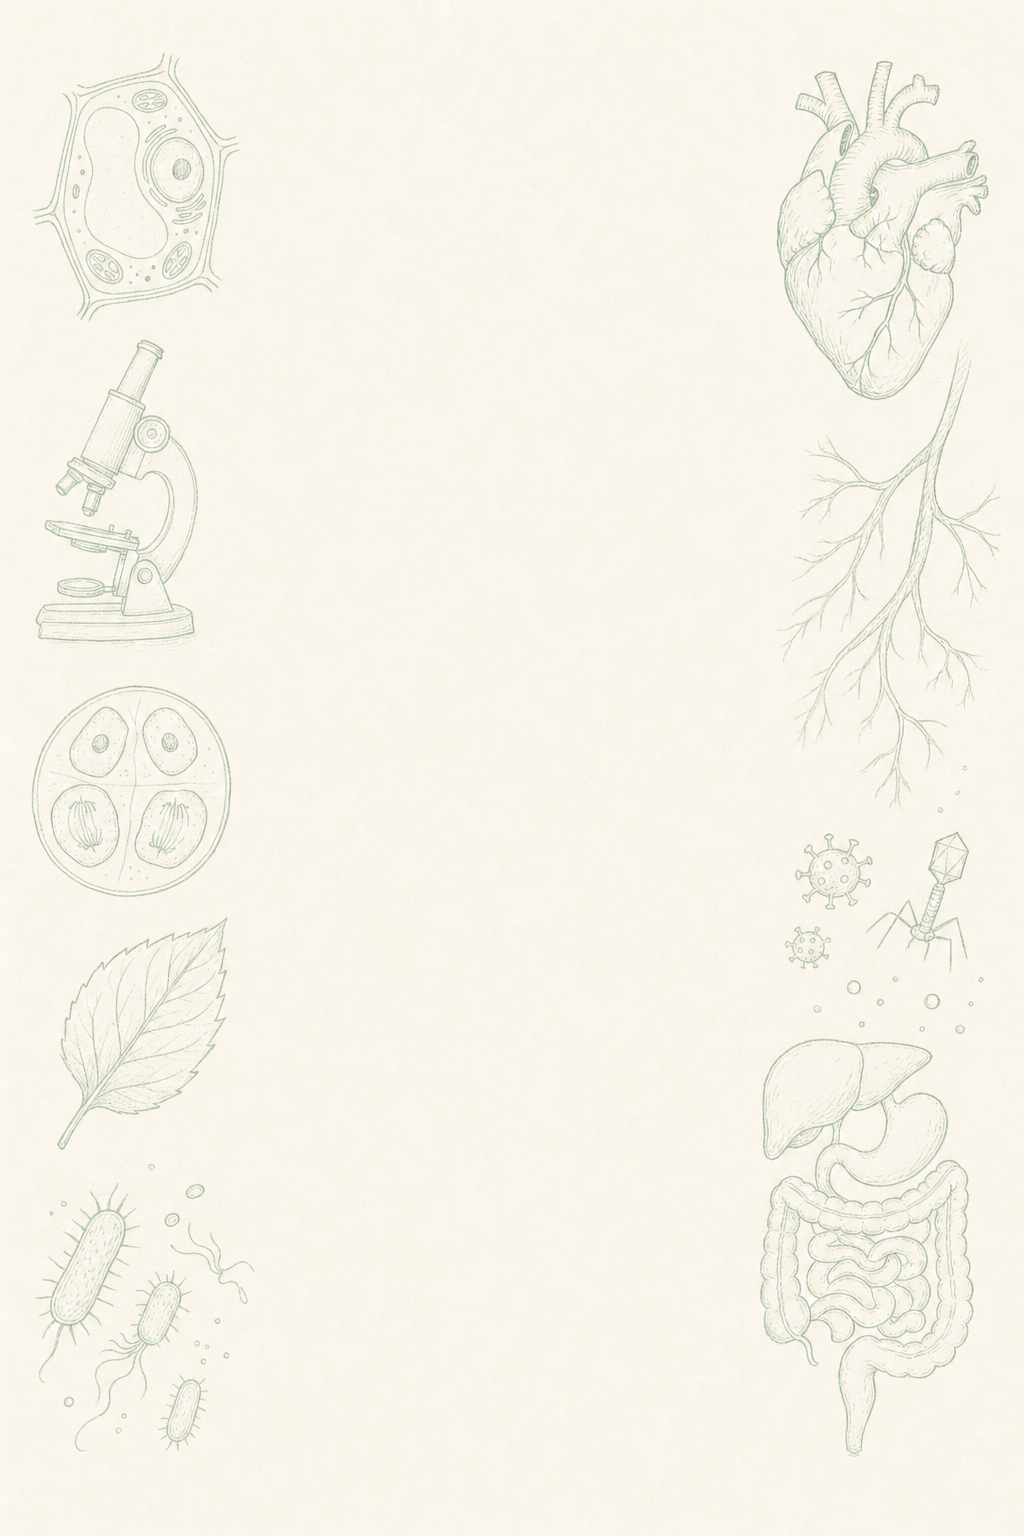
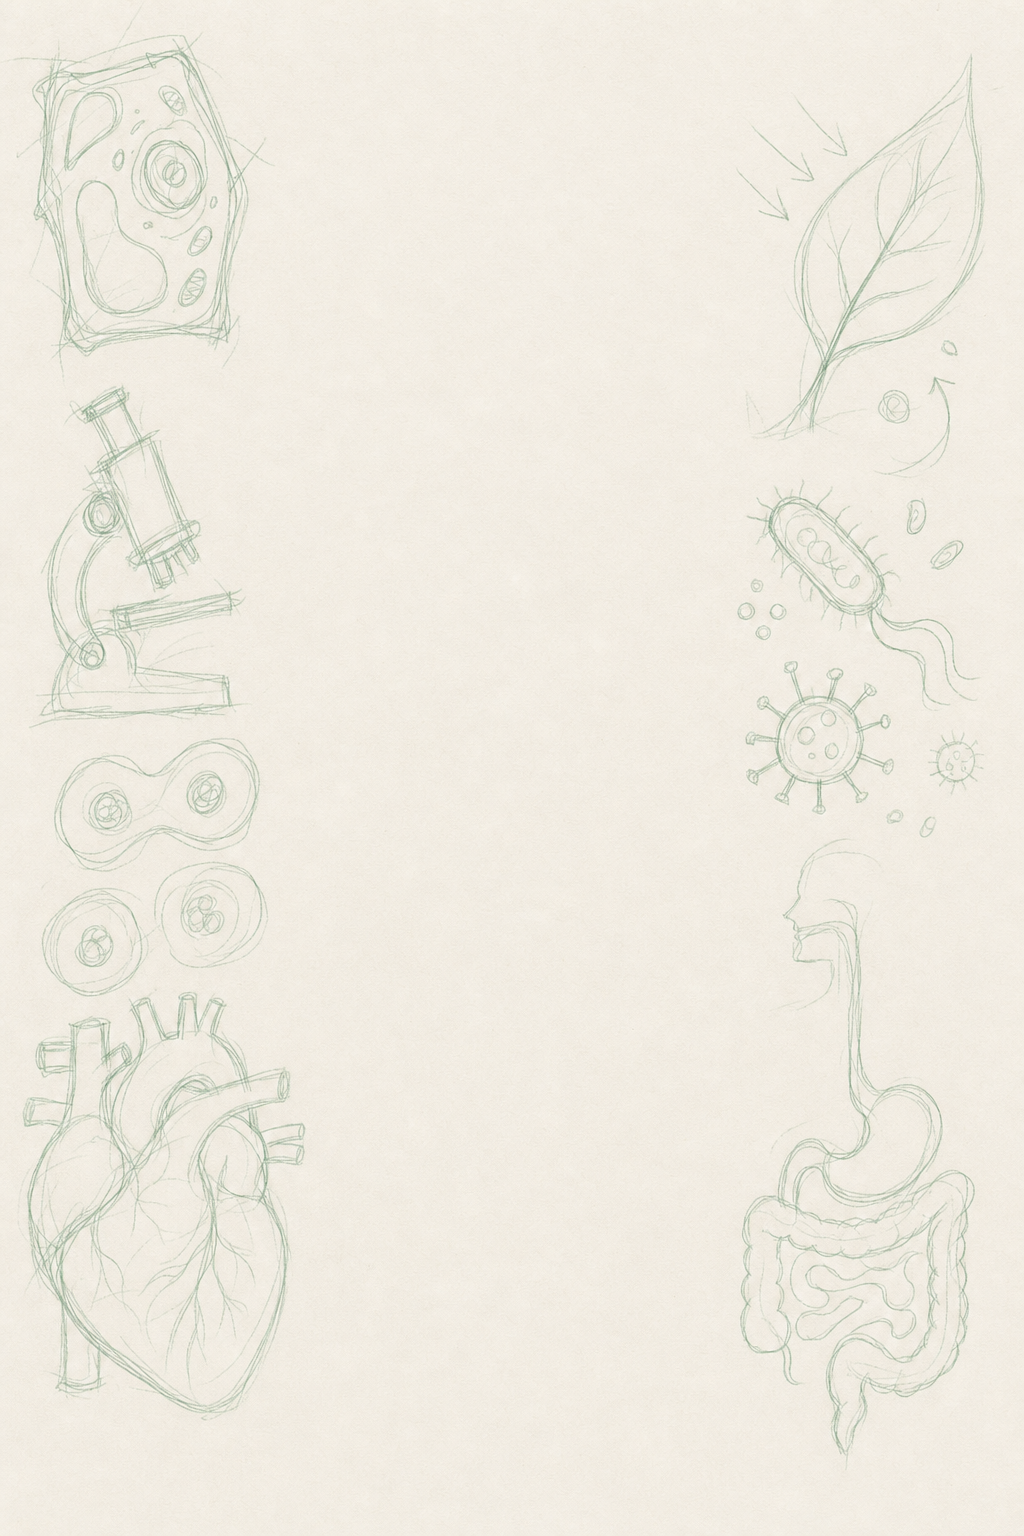
Learning-path: drop the helix → clean winding climb; rougher sketch backdrop
- Path reverted to a single smooth winding climb (gentle weave inside the
  backdrop's clear central lane): walked part solid accent, ahead faint
  dashed. The themed connectors (helix/wave/curve) are gone — the generated
  backdrop now carries the topic/theme, the path just climbs over it.
- Regenerated the sketch backdrop with a much rougher, looser, "unfinished"
  prompt (scratchy gestural doodles, half-drawn shapes) — was too polished.
  (Riso being regenerated separately as a flat duotone to distinguish it
  from the engraving.)

Verified live: winding path + rough sketch, no console errors.

Changed region(s): [[0.0, 0.0312, 0.3125, 0.9375], [0.7188, 0.0312, 0.9688, 0.9688], [0.7188, 0.375, 0.75, 0.4062]]

diff --git a/design-lab/path.html b/design-lab/path.html
@@ -142,61 +142,42 @@
       render(units);
     }, function(){ document.getElementById('path').innerHTML='<div class="loading">Could not load.</div>'; });
 
-  /* ---- the PATH IS the structure: the connector between two lessons takes a
-         themed form, and you climb through it (no separate backdrop) ---- */
+  /* ---- a clean winding path; the generated backdrop carries the topic, the path just climbs ---- */
   var NS='http://www.w3.org/2000/svg';
   function E(tag,a){ var e=document.createElementNS(NS,tag); for(var k in a) e.setAttribute(k,a[k]); return e; }
-  function themeFor(name){
-    if(/biolog|cell|dna|living|organis|inher|evolut|ecolog|infect/i.test(name)) return 'helix';
-    if(/phys|energy|force|wave|electric|magnet|radiat/i.test(name)) return 'wave';
-    return 'curve';
-  }
-  function strandD(cx,y0,y1,A,turns,phase){ var d='',N=Math.max(12,Math.round(Math.abs(y1-y0)/5)); for(var i=0;i<=N;i++){ var t=i/N,y=y0+(y1-y0)*t,x=cx+Math.sin(t*Math.PI*2*turns+phase)*A; d+=(i?'L':'M')+x.toFixed(1)+' '+y.toFixed(1)+' '; } return d; }
-  // draw the themed structure between two consecutive nodes (this segment IS the path)
-  function connector(conn,theme,cx,y0,y1,A,done,idx){
-    var acc=SUBJECT.accent, col=done?acc:'#cdcac4', op=done?0.62:0.95, w=done?3.4:2.6;
-    function add(d,wd,o,dash,c){ var p=E('path',{d:d,fill:'none',stroke:c||col,'stroke-width':wd==null?w:wd,'stroke-linecap':'round',opacity:o==null?op:o}); if(dash) p.setAttribute('stroke-dasharray',dash); conn.appendChild(p); }
-    if(theme==='helix'){                                   // one DNA twist per lesson-gap, nodes at the crossings
-      add(strandD(cx,y0,y1,A,1,0),w,op,done?null:'1 7');
-      add(strandD(cx,y0,y1,A,1,Math.PI),w,op,done?null:'1 7');
-      [0.25,0.75].forEach(function(tt){ var y=y0+(y1-y0)*tt, xa=cx+Math.sin(tt*Math.PI*2)*A; add('M '+xa+' '+y+' L '+(2*cx-xa)+' '+y, 1.4, done?0.42:0.22); });
-    } else if(theme==='wave'){
-      add(strandD(cx,y0,y1,A,1,0),w,op,done?null:'1 7');
-    } else {                                               // gentle alternating bulge
-      add(strandD(cx,y0,y1,A,0.5, idx%2?Math.PI:0),w,op,done?null:'1 7');
-    }
-  }
 
   function render(units){
     var host=document.getElementById('path'); host.innerHTML='';
-    var W=Math.min(host.clientWidth,520), cx=W/2, vGap=98, chGap=74, unitGap=52, botPad=74, topPad=48;
+    var W=Math.min(host.clientWidth,520), cx=W/2, amp=Math.min(64,(W-300)/2), vGap=96, chGap=74, unitGap=52, botPad=74, topPad=48;
     var total=0; units.forEach(function(u,ui){ total += chGap + u.lessons.length*vGap + (ui<units.length-1?unitGap:0); });
     var H=total+botPad+topPad;
     function Y(yb){ return H-botPad-yb; }        // lesson 1 at the BOTTOM; you climb up
     var stage=document.createElement('div'); stage.id='pstage'; stage.style.cssText='position:relative;width:'+W+'px;height:'+H+'px;margin:0 auto'; host.appendChild(stage);
     var conn=E('svg',{width:W,height:H,viewBox:'0 0 '+W+' '+H}); conn.style.cssText='position:absolute;inset:0;pointer-events:none;overflow:visible'; stage.appendChild(conn);
-    var yb=0, currentEl=null;
+    var yb=0, gidx=0, currentEl=null;
     units.forEach(function(u,ui){
-      var n=u.lessons.length, base=yb+chGap, theme=themeFor(u.name);
-      var A=theme==='helix'?40:(theme==='wave'?34:66);
-      var pos=u.lessons.map(function(L,j){ return Y(base+j*vGap); });   // centred column, just the y
-      // connectors (the structured path), consecutive pairs in lesson order
-      for(var j=0;j<n-1;j++){ connector(conn,theme,cx,pos[j],pos[j+1],A, u.lessons[j].done&&u.lessons[j+1].done, j); }
+      var n=u.lessons.length, base=yb+chGap;
+      var pos=u.lessons.map(function(L,j){ return {x:cx+Math.sin((gidx+j)*0.85)*amp, top:Y(base+j*vGap)}; });   // gentle weave, stays in the clear central lane
+      // one smooth winding path: walked part solid, the rest a faint dashed trail ahead
+      function seg(a,b,stroke,wd,op,dash){ if(b<=a) return; var d='M '+pos[a].x.toFixed(1)+' '+pos[a].top.toFixed(1); for(var k=a+1;k<=b;k++){ var p0=pos[k-1],p1=pos[k],my=(p0.top+p1.top)/2; d+=' C '+p0.x.toFixed(1)+' '+my.toFixed(1)+' '+p1.x.toFixed(1)+' '+my.toFixed(1)+' '+p1.x.toFixed(1)+' '+p1.top.toFixed(1); } var pa=E('path',{d:d,fill:'none',stroke:stroke,'stroke-width':wd,'stroke-linecap':'round',opacity:op}); if(dash) pa.setAttribute('stroke-dasharray',dash); conn.appendChild(pa); }
+      var lastDone=-1; u.lessons.forEach(function(L,j){ if(L.done) lastDone=j; });
+      seg(0,Math.max(0,lastDone),SUBJECT.accent,3.6,0.6);
+      seg(Math.max(0,lastDone),n-1,'#cdcac4',2.6,0.95,'1 7');
       // chapter label (foot of the unit — you climb up into it)
       var doneInUnit=u.lessons.filter(function(L){return L.done;}).length;
       var ch=document.createElement('div'); ch.className='chapter'; ch.style.cssText='position:absolute;left:0;width:100%;margin:0;top:'+(Y(yb+chGap*0.5)-9)+'px';
       ch.innerHTML='<span class="line"></span><span class="lbl">'+esc(u.name)+'</span><span class="ct">'+doneInUnit+' / '+n+'</span><span class="line"></span>';
       stage.appendChild(ch);
-      // nodes (centred column; titles alternate side)
+      // nodes (weaving; title sits toward the centre, clear of the margin art)
       u.lessons.forEach(function(L,j){
-        var node=document.createElement('div'); node.className='node '+(j%2?'t-left':'t-right')+' '+(L.current?'current':(L.done?'done':'ahead'));
-        node.style.left=cx+'px'; node.style.top=pos[j]+'px';
+        var node=document.createElement('div'); node.className='node '+(pos[j].x<cx?'t-right':'t-left')+' '+(L.current?'current':(L.done?'done':'ahead'));
+        node.style.left=pos[j].x+'px'; node.style.top=pos[j].top+'px';
         node.innerHTML='<span class="dot">'+(L.current?PLAY:(L.done?CHECK:L.no))+'</span><span class="lt">'+(L.current?'<span class="pill">Up next</span><br>':'')+esc(L.t)+'</span>';
         node.addEventListener('click',function(){ console.log('open lesson',L.no,L.t); });
         stage.appendChild(node);
         if(L.current) currentEl=node;
       });
-      yb=base+n*vGap+(ui<units.length-1?unitGap:0);
+      gidx+=n; yb=base+n*vGap+(ui<units.length-1?unitGap:0);
     });
     if(currentEl) setTimeout(function(){ currentEl.scrollIntoView({block:'center',behavior:reduce?'auto':'smooth'}); },140);
     applyBg(SUBJECT.bg||'');

diff --git a/scripts/_designlab_path_backdrops2.py b/scripts/_designlab_path_backdrops2.py
@@ -1,0 +1,57 @@
+"""Regenerate two backdrop styles with harder prompts:
+- sketch: ROUGH, loose, unfinished gestural doodles (was too polished)
+- riso:   FLAT bold duotone silhouettes, no linework (was ~ engraving)
+Overwrites design-lab/assets/path-bg-{sketch,riso}.png. Engraving left as-is.
+Run:  python scripts/_designlab_path_backdrops2.py
+"""
+import base64, os, sys
+from openai import OpenAI
+
+ACCENT = "#368352"
+TOPICS = ("a plant cell, a microscope, dividing cells, a human heart with vessels, "
+          "a leaf for photosynthesis, bacteria and viruses, a digestive-system outline")
+
+STRICT = (f"STRICT: vertical portrait. Warm off-white paper (#f7f6f4) fills the ENTIRE image. "
+          f"Put every shape ONLY in the far-left and far-right margins; the whole central vertical "
+          f"third MUST stay completely empty (bare paper, reserved for an overlay). Keep it pale, "
+          f"faded and low-contrast. ABSOLUTELY NO text, words, letters, numbers, labels or captions. "
+          f"No frame, no border, no watermark.")
+
+BRIEFS = {
+  "sketch":
+    f"VERY ROUGH, loose, UNFINISHED hand-sketch — quick scratchy biro/pencil doodles of {TOPICS}, "
+    f"drawn fast and imperfectly: wobbly lines, visible construction marks, several shapes only "
+    f"HALF-DRAWN or suggested with a couple of strokes, sparse, gestural, messy, incomplete — like "
+    f"10-second margin scribbles, NOT a finished or detailed drawing. Thin faint single muted-green "
+    f"line ({ACCENT}) on warm paper, no shading, no fills. " + STRICT,
+  "riso":
+    f"A BOLD FLAT two-colour risograph screen-print: big SIMPLE FLAT SILHOUETTE shapes of {TOPICS} — "
+    f"chunky solid blocks of colour ONLY. NO outlines, NO line-art, NO cross-hatching, NO fine detail, "
+    f"NO shading, NO realism. Grainy halftone risograph texture with slight colour mis-registration. "
+    f"Exactly two flat tones: muted green ({ACCENT}) and warm cream. Graphic, posterised, minimal, "
+    f"simplified like cut-paper. " + STRICT,
+}
+
+
+def main():
+    if not os.environ.get("OPENAI_API_KEY"):
+        sys.exit("OPENAI_API_KEY not set")
+    client = OpenAI()
+    out_dir = os.path.join(os.path.dirname(os.path.dirname(os.path.abspath(__file__))), "design-lab", "assets")
+    for key, prompt in BRIEFS.items():
+        out_path = os.path.join(out_dir, f"path-bg-{key}.png")
+        for model in ("gpt-image-2", "gpt-image-1"):
+            try:
+                print(f"[{key}] {model} 1024x1536 high…", flush=True)
+                r = client.images.generate(model=model, prompt=prompt, size="1024x1536", quality="high")
+                with open(out_path, "wb") as f:
+                    f.write(base64.b64decode(r.data[0].b64_json))
+                print(f"[{key}] saved ({os.path.getsize(out_path)//1024} KB) via {model}", flush=True)
+                break
+            except Exception as e:
+                print(f"[{key}] {model} failed: {e}", flush=True)
+    print("done")
+
+
+if __name__ == "__main__":
+    main()
